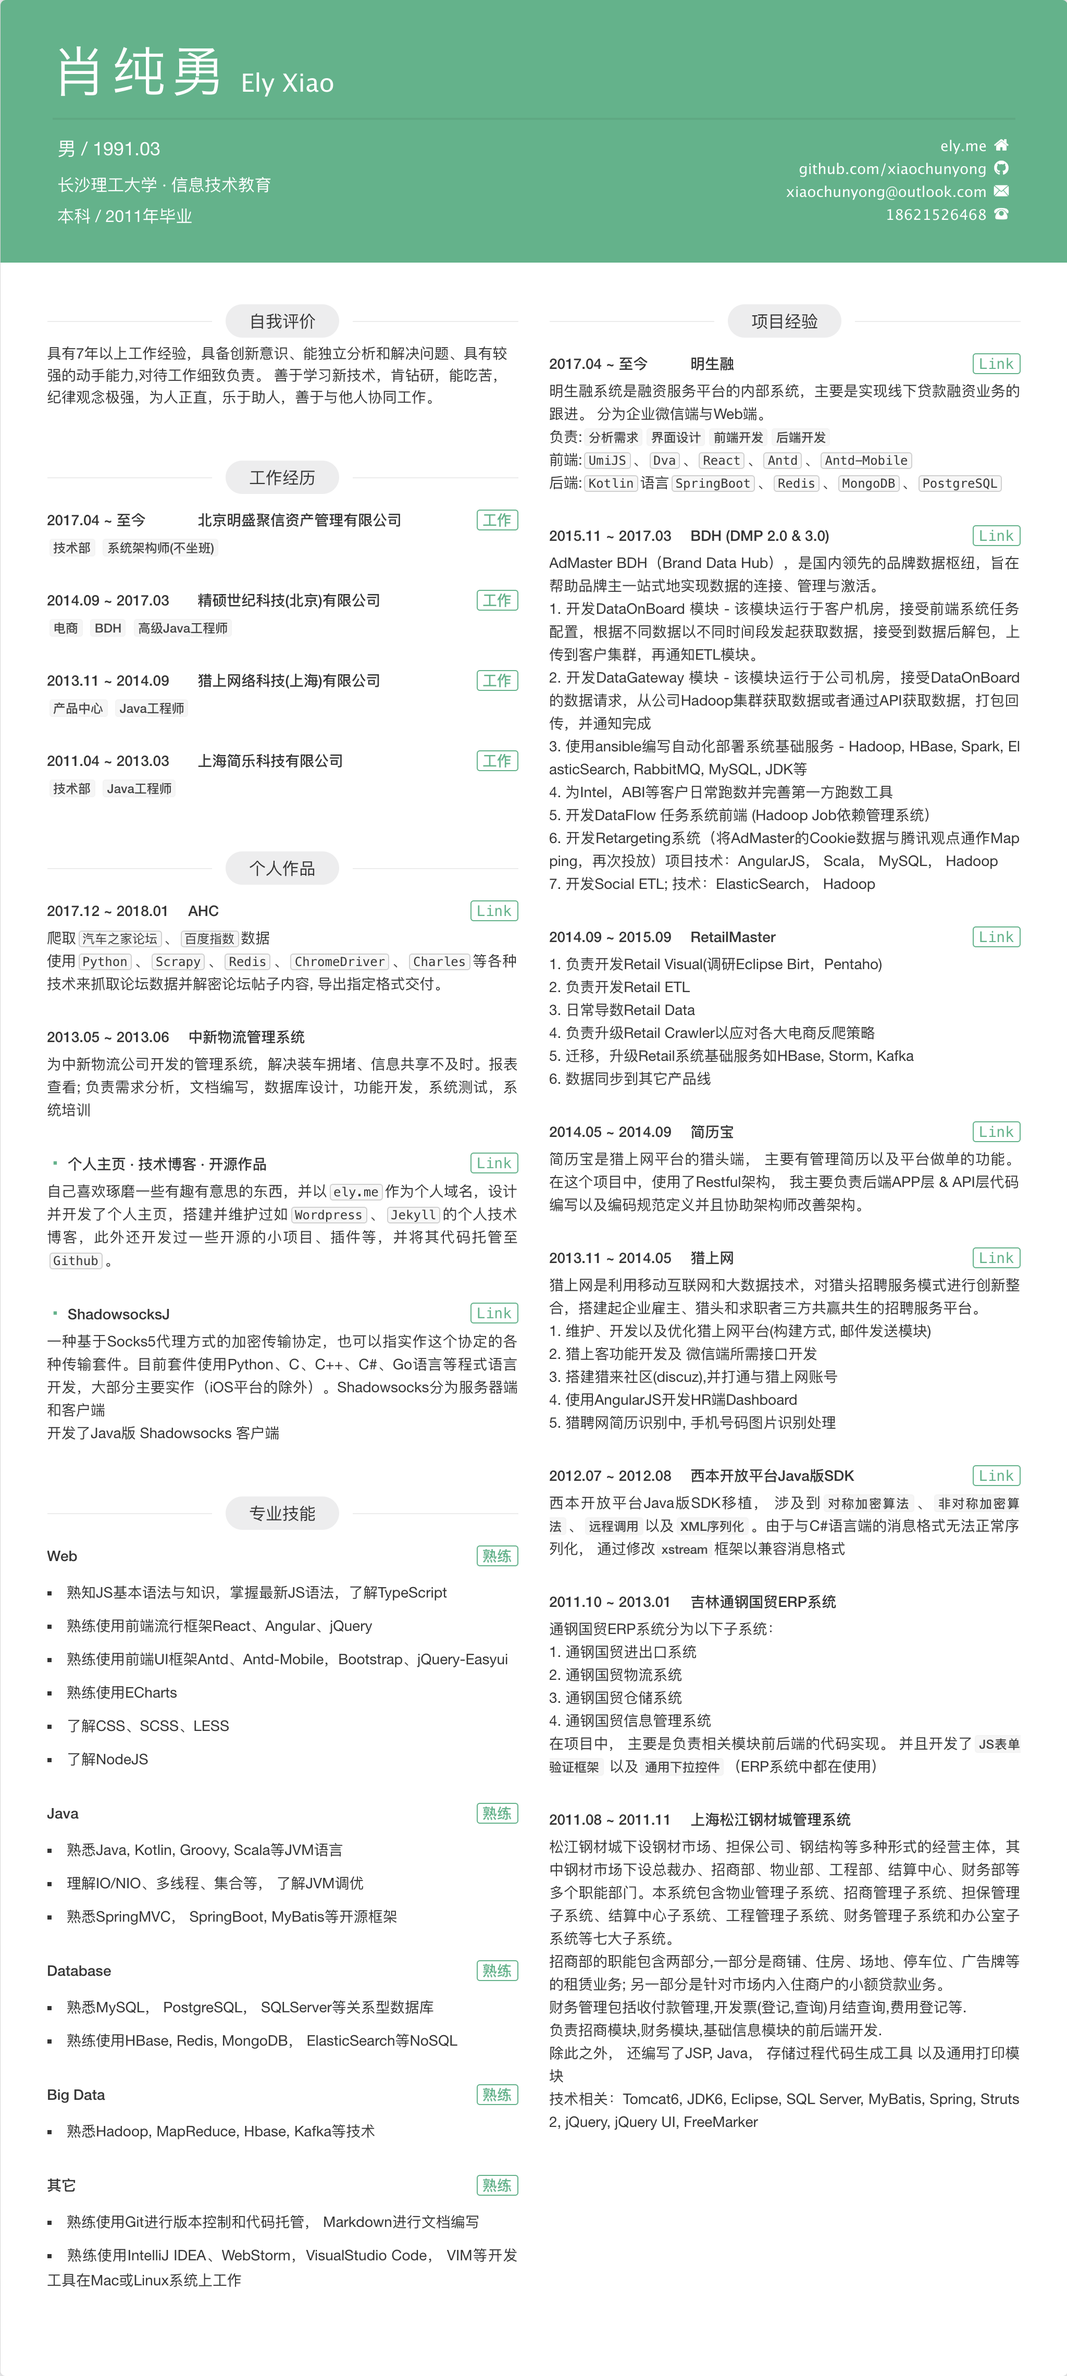
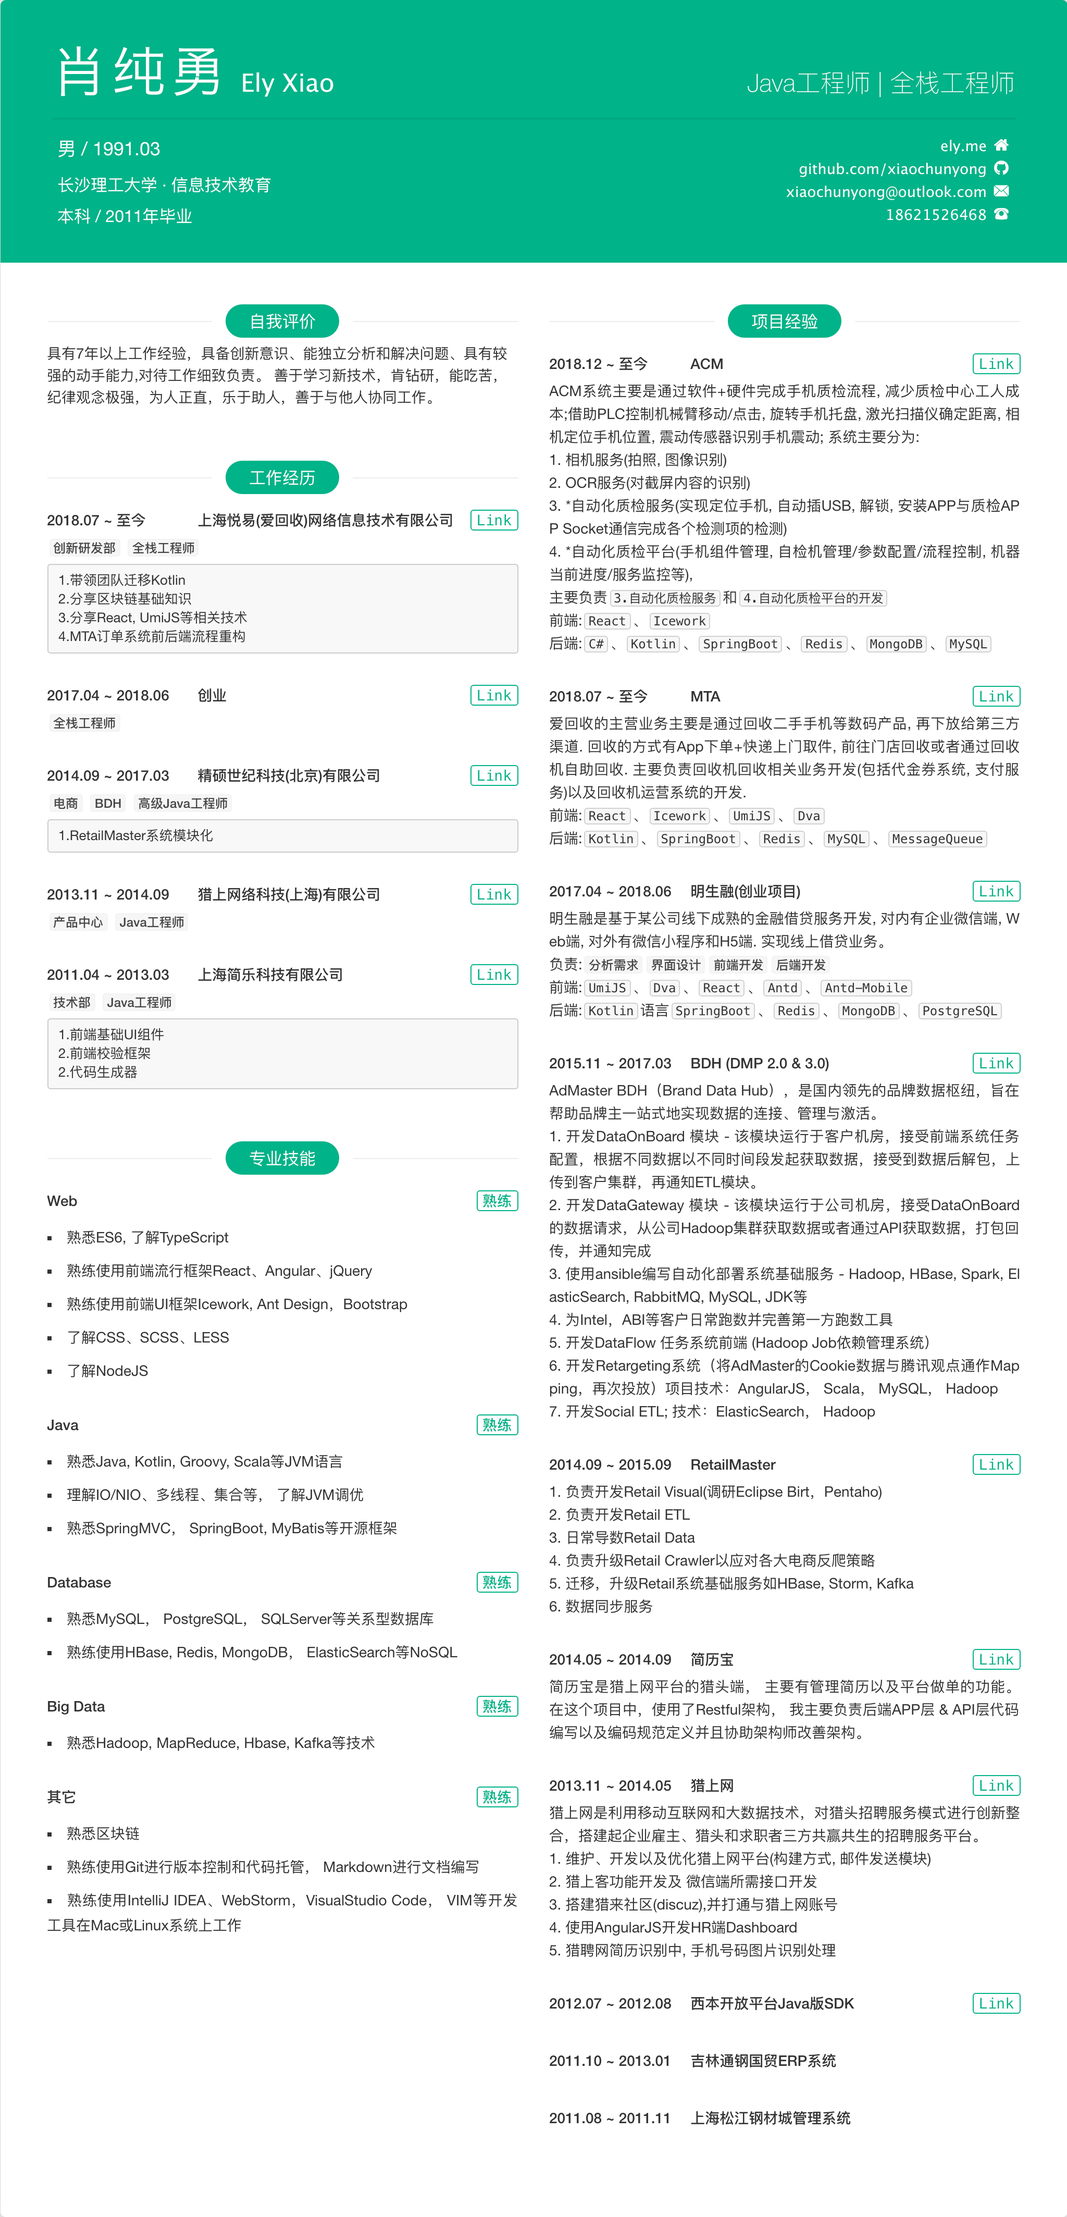
update

diff --git a/src/index.html b/src/index.html
@@ -8,7 +8,7 @@
 </head>
 <body class="print">
     <!--[if IE]><p class="kill-ie">微软都放弃了IE，为啥你却还不放弃？</p><![endif]-->
-    <p class="last-modified">最后更新时间：2018年05月30日</p>
+    <p class="last-modified">最后更新时间：2019年05月22日</p>
     <div class="content">
         <header class="content-hd">
             <section class="title">
@@ -63,7 +63,7 @@
                         <div class="item">
                             <header class="item-hd">
                                 <span class="item-time">2018.07 ~ 至今</span>
-                                <a class="btn item-more" href="http://www.aihuishou.com" target="_blank">工作</a>
+                                <a class="btn item-more" href="http://www.aihuishou.com" target="_blank">Link</a>
                                 <h3 class="item-name">上海悦易(爱回收)网络信息技术有限公司</h3>
                             </header>
                             <div class="item-bd">
@@ -72,15 +72,20 @@
                                     <strong>全栈工程师</strong>
                                 </p>
                             </div>
+                            <div class="item-ft">
+                                1.带领团队迁移Kotlin<br/>
+                                2.分享区块链基础知识<br/>
+                                3.分享React, UmiJS等相关技术<br/>
+                                4.MTA订单系统前后端流程重构<br/>
+                            </div>
                         </div><div class="item">
                             <header class="item-hd">
                                 <span class="item-time">2017.04 ~ 2018.06</span>
-                                <a class="btn item-more" href="http://www.msh79.com/" target="_blank">工作</a>
-                                <h3 class="item-name">北京明盛聚信资产管理有限公司</h3>
+                                <a class="btn item-more" href="http://www.msh79.com/" target="_blank">Link</a>
+                                <h3 class="item-name">创业</h3>
                             </header>
                             <div class="item-bd">
                                 <p class="section-content">
-                                    <strong>技术部</strong>
                                     <strong>全栈工程师</strong>
                                 </p>
                             </div>
@@ -88,7 +93,7 @@
                         <div class="item">
                             <header class="item-hd">
                                 <span class="item-time">2014.09 ~ 2017.03</span>
-                                <a class="btn item-more" href="http://www.admaster.com.cn" target="_blank">工作</a>
+                                <a class="btn item-more" href="http://www.admaster.com.cn" target="_blank">Link</a>
                                 <h3 class="item-name">精硕世纪科技(北京)有限公司</h3>
                             </header>
                             <div class="item-bd">
@@ -98,11 +103,14 @@
                                     <strong>高级Java工程师</strong>
                                 </p>
                             </div>
+                            <div class="item-ft">
+                                1.RetailMaster系统模块化<br/>
+                            </div>
                         </div>
                         <div class="item">
                             <header class="item-hd">
                                 <span class="item-time">2013.11 ~ 2014.09</span>
-                                <a class="btn item-more" href="http://www.hunteron.com" target="_blank">工作</a>
+                                <a class="btn item-more" href="http://www.hunteron.com" target="_blank">Link</a>
                                 <h3 class="item-name">猎上网络科技(上海)有限公司</h3>
                             </header>
                             <div class="item-bd">
@@ -116,7 +124,7 @@
                             <header class="item-hd">
                                 <span class="item-time">2011.04 ~ 2013.03</span>
                                 <h3 class="item-name">上海简乐科技有限公司</h3>
-                                <a class="btn item-more" href="http://apps.congm.in/blues" target="_blank">工作</a>
+                                <a class="btn item-more" href="http://apps.congm.in/blues" target="_blank">Link</a>
                             </header>
                             <div class="item-bd">
                                 <p class="section-content">
@@ -124,16 +132,21 @@
                                     <strong>Java工程师</strong>
                                 </p>
                             </div>
+                            <div class="item-ft">
+                                1.前端基础UI组件<br/>
+                                2.前端校验框架<br/>
+                                2.代码生成器<br/>
+                            </div>
                         </div>
                     </div>
                 </section>
-                <section class="personal">
-                    <header class="section-hd">
-                        <span class="section-title-l"></span>
-                        <h2 class="section-title">个人作品</h2>
-                        <span class="section-title-r"></span>
-                    </header>
-                    <div class="section-bd">
+<!--                <section class="personal">-->
+<!--                    <header class="section-hd">-->
+<!--                        <span class="section-title-l"></span>-->
+<!--                        <h2 class="section-title">个人作品</h2>-->
+<!--                        <span class="section-title-r"></span>-->
+<!--                    </header>-->
+<!--                    <div class="section-bd">-->
 <!--                        <div class="item">-->
 <!--                            <header class="item-hd">-->
 <!--                                <span class="item-time">2017.12 ~ 2018.01</span>-->
@@ -160,32 +173,32 @@
 <!--                                </p>-->
 <!--                            </div>-->
 <!--                        </div>-->
-                        <div class="item">
-                            <header class="item-hd">
-                                <a class="btn item-more" href="https://ely.me" target="_blank">Link</a>
-                                <h3 class="item-name"><i class="iconfont icon-dot"></i> 个人主页 · 技术博客 · 开源作品</h3>
-                            </header>
-                            <div class="item-bd">
-                                <p class="section-content">
-                                    自己喜欢琢磨一些有趣有意思的东西，并以<em>ely.me</em>作为个人域名，设计并开发了个人主页，搭建并维护过如<em>Wordpress</em>、<em>Jekyll</em>的个人技术博客，此外还开发过一些开源的小项目、插件等，并将其代码托管至<em>Github</em>。
-                                </p>
-                            </div>
-                        </div>
+<!--                        <div class="item">-->
+<!--                            <header class="item-hd">-->
+<!--                                <a class="btn item-more" href="https://ely.me" target="_blank">Link</a>-->
+<!--                                <h3 class="item-name"><i class="iconfont icon-dot"></i> 个人主页 · 技术博客 · 开源作品</h3>-->
+<!--                            </header>-->
+<!--                            <div class="item-bd">-->
+<!--                                <p class="section-content">-->
+<!--                                    自己喜欢琢磨一些有趣有意思的东西，并以<em>ely.me</em>作为个人域名，设计并开发了个人主页，搭建并维护过如<em>Wordpress</em>、<em>Jekyll</em>的个人技术博客，此外还开发过一些开源的小项目、插件等，并将其代码托管至<em>Github</em>。-->
+<!--                                </p>-->
+<!--                            </div>-->
+<!--                        </div>-->
 
-                        <div class="item">
-                            <header class="item-hd">
-                                <a class="btn item-more" href="https://github.com/xiaochunyong/shadowsocksJ" target="_blank">Link</a>
-                                <h3 class="item-name"><i class="iconfont icon-dot"></i> ShadowsocksJ</h3>
-                            </header>
-                            <div class="item-bd">
-                                <p class="section-content">
-                                    一种基于Socks5代理方式的加密传输协定，也可以指实作这个协定的各种传输套件。目前套件使用Python、C、C++、C#、Go语言等程式语言开发，大部分主要实作（iOS平台的除外）。Shadowsocks分为服务器端和客户端<br/>
-                                    开发了Java版 Shadowsocks 客户端
-                                </p>
-                            </div>
-                        </div>
-                    </div>
-                </section>
+<!--                        <div class="item">-->
+<!--                            <header class="item-hd">-->
+<!--                                <a class="btn item-more" href="https://github.com/xiaochunyong/shadowsocksJ" target="_blank">Link</a>-->
+<!--                                <h3 class="item-name"><i class="iconfont icon-dot"></i> ShadowsocksJ</h3>-->
+<!--                            </header>-->
+<!--                            <div class="item-bd">-->
+<!--                                <p class="section-content">-->
+<!--                                    一种基于Socks5代理方式的加密传输协定，也可以指实作这个协定的各种传输套件。目前套件使用Python、C、C++、C#、Go语言等程式语言开发，大部分主要实作（iOS平台的除外）。Shadowsocks分为服务器端和客户端<br/>-->
+<!--                                    开发了Java版 Shadowsocks 客户端-->
+<!--                                </p>-->
+<!--                            </div>-->
+<!--                        </div>-->
+<!--                    </div>-->
+<!--                </section>-->
                 <section class="skill">
                     <header class="section-hd">
                         <span class="section-title-l"></span>
@@ -253,7 +266,7 @@
                             </header>
                             <div class="item-bd">
                                 <ul class="section-content">
-                                    <li>了解区块链原理</li>
+                                    <li>熟悉区块链</li>
                                     <li>熟练使用Git进行版本控制和代码托管， Markdown进行文档编写</li>
                                     <li>熟练使用IntelliJ IDEA、WebStorm，VisualStudio Code， VIM等开发工具在Mac或Linux系统上工作</li>
                                 </ul>
@@ -304,15 +317,20 @@
                             <header class="item-hd">
                                 <span class="item-time">2018.12 ~ 至今</span>
                                 <a class="btn item-more" href="#" target="_blank">Link</a>
-                                <h3 class="item-name">自动化质检系统</h3>
+                                <h3 class="item-name">ACM</h3>
                             </header>
                             <div class="item-bd">
                                 <p class="section-content">
-                                    自动化质检系统是为了减少人力成本, 通过自动检测机器完成二手机的功能检测.<br/>
-                                    通过拍照, 图像识别, 定位
-                                    负责:<strong>分析需求</strong><strong>界面设计</strong><strong>前端开发</strong><strong>后端开发</strong><br/>
-                                    前端:<em>UmiJS</em>、<em>Dva</em>、<em>React</em>、<em>Icework</em><br/>
-                                    后端:<em>C#</em>、<em>Kotlin</em>、<em>SpringBoot</em>、<em>Redis</em>、<em>MongoDB</em>、<em>MySQL</em>、<em>MySQL</em>
+                                    <!--借助PLC控制机械臂移动, 点击屏幕, 滑动屏幕, 旋转手机托盘, 激光扫描仪确定距离, 相机定位手机位置, 震动传感器识别手机震动-->
+                                    ACM系统主要是通过软件+硬件完成手机质检流程, 减少质检中心工人成本;借助PLC控制机械臂移动/点击, 旋转手机托盘, 激光扫描仪确定距离, 相机定位手机位置, 震动传感器识别手机震动;
+                                    系统主要分为:<br/>
+                                    1. 相机服务(拍照, 图像识别)<br/>
+                                    2. OCR服务(对截屏内容的识别) <!--机器学习识别手机USB口--><br/>
+                                    3. *自动化质检服务(实现定位手机, 自动插USB, 解锁, 安装APP与质检APP Socket通信完成各个检测项的检测)<br/>
+                                    4. *自动化质检平台(手机组件管理, 自检机管理/参数配置/流程控制, 机器当前进度/服务监控等),<br/>
+                                    主要负责<em>3.自动化质检服务</em>和<em>4.自动化质检平台的开发</em><br/>
+                                    前端:<em>React</em>、<em>Icework</em><br/>
+                                    后端:<em>C#</em>、<em>Kotlin</em>、<em>SpringBoot</em>、<em>Redis</em>、<em>MongoDB</em>、<em>MySQL</em>
                                     <!--系统采用分布式部署， 负载均衡，-->
                                 </p>
                             </div>
@@ -324,10 +342,9 @@
                             </header>
                             <div class="item-bd">
                                 <p class="section-content">
-                                    爱回收回收手机的方式比较灵活多样, 可以通过App下单, 快递上门取件或者前往门店渠道分为, 快递上门取件或前往门店以及自助回收机回收.
-                                    MTA系统主要是提供给运营人员管理自助回收机相关操作以及面向用户端回收H5应用.信用回收则是通过评估用户的信用等级<br/>
-                                    负责:<strong>分析需求</strong><strong>界面设计</strong><strong>前端开发</strong><strong>后端开发</strong><br/>
-                                    前端:<em>UmiJS</em>、<em>Dva</em>、<em>React</em>、<em>Icework</em><br/>
+                                    爱回收的主营业务主要是通过回收二手手机等数码产品, 再下放给第三方渠道. 回收的方式有App下单+快递上门取件, 前往门店回收或者通过回收机自助回收.
+                                    主要负责回收机回收相关业务开发(包括代金券系统, 支付服务)以及回收机运营系统的开发.<br/>
+                                    前端:<em>React</em>、<em>Icework</em>、<em>UmiJS</em>、<em>Dva</em><br/>
                                     后端:<em>Kotlin</em>、<em>SpringBoot</em>、<em>Redis</em>、<em>MySQL</em>、<em>MessageQueue</em>
                                     <!--系统采用分布式部署， 负载均衡，-->
                                 </p>
@@ -337,11 +354,11 @@
                             <header class="item-hd">
                                 <span class="item-time">2017.04 ~ 2018.06</span>
                                 <a class="btn item-more" href="https://msr.msh79.com" target="_blank">Link</a>
-                                <h3 class="item-name">明生融</h3>
+                                <h3 class="item-name">明生融(创业项目)</h3>
                             </header>
                             <div class="item-bd">
                                 <p class="section-content">
-                                    明生融系统是融资服务平台的内部系统，主要是实现线下贷款融资业务的跟进。 分为企业微信端与Web端。<br/>
+                                    明生融是基于某公司线下成熟的金融借贷服务开发, 对内有企业微信端, Web端, 对外有微信小程序和H5端. 实现线上借贷业务。<br/>
                                     负责:<strong>分析需求</strong><strong>界面设计</strong><strong>前端开发</strong><strong>后端开发</strong><br/>
                                     前端:<em>UmiJS</em>、<em>Dva</em>、<em>React</em>、<em>Antd</em>、<em>Antd-Mobile</em><br/>
                                     后端:<em>Kotlin</em>语言<em>SpringBoot</em>、<em>Redis</em>、<em>MongoDB</em>、<em>PostgreSQL</em>
@@ -385,7 +402,7 @@
                                     3. 日常导数Retail Data<br/>
                                     4. 负责升级Retail Crawler以应对各大电商反爬策略<br/>
                                     5. 迁移，升级Retail系统基础服务如HBase, Storm, Kafka<br/>
-                                    6. 数据同步到其它产品线<br/>
+                                    6. 数据同步服务<br/>
                                 </p>
                             </div>
                         </div>
@@ -481,7 +498,8 @@
     <footer class="print-footer">
         <a class="footer-link" href="https://resume.ely.me" target="_blank"><i class="iconfont icon-link"></i> 网页版简历：resume.ely.me</a>
     </footer>
-    <a class="pdf" href="resume.pdf"><i class="iconfont icon-pdf"></i> PDF简历</a>
+    <a class="pdf" href="resume.png" target="_blank"><i class="iconfont icon-pdf"></i> PNG简历</a>
+<!--    <a class="pdf" href="resume.png"><i class="iconfont icon-pdf"></i> PDF简历</a>-->
     <!--<script src="//congm.in/tongji/congm.in.js"></script>-->
 </body>
 </html>

diff --git a/src/css/style.less b/src/css/style.less
@@ -257,7 +257,9 @@ a {
         border-radius: 32px;
         font-size: 16px;
         text-align: center;
-        background-color: #eee;
+        //background-color: #eee;
+        background-color: #00b38a;
+        color: white;
     }
     .section-list {
         padding: 10px 0 5px;
@@ -297,6 +299,19 @@ a {
     }
     .item-bd {
         margin-bottom: 5px;
+    }
+    .item-ft {
+        display: block;
+        margin: 0 0 10px;
+        font-size: 13px;
+        line-height: 1.42857143;
+        color: #333;
+        word-break: break-all;
+        word-wrap: break-word;
+        background-color: #f8f8f8;
+        border: 1px solid #ccc;
+        padding: 6px 10px;
+        border-radius: 3px;
     }
     .section-content {
         line-height: 22px;
